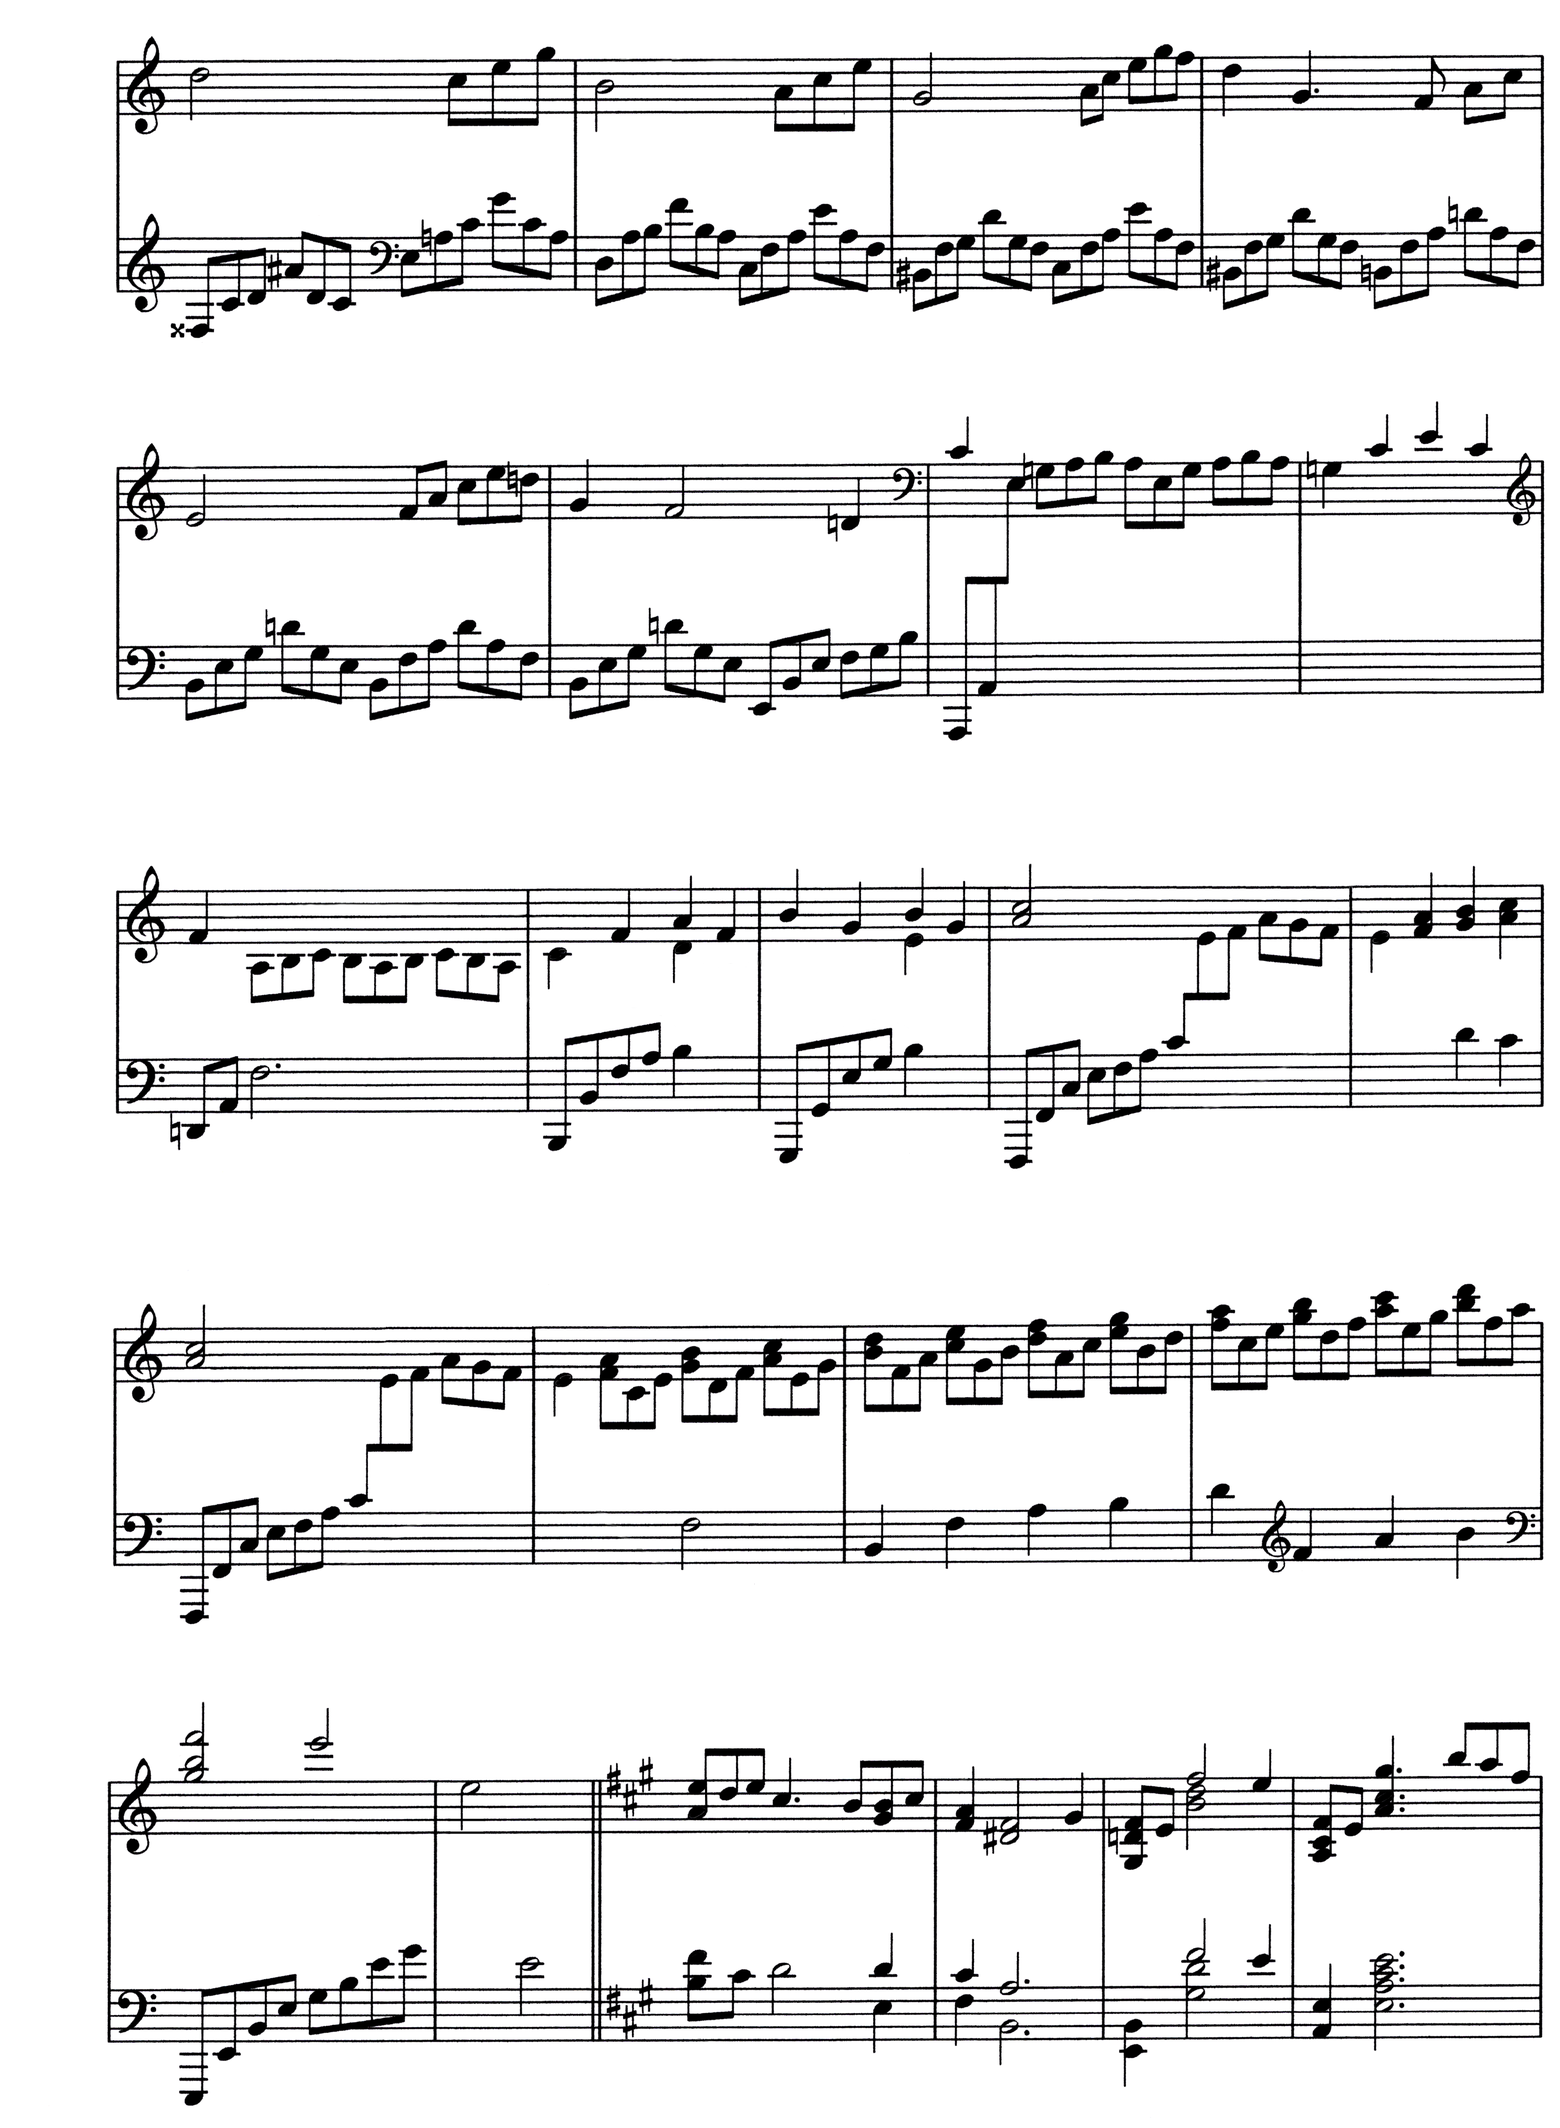
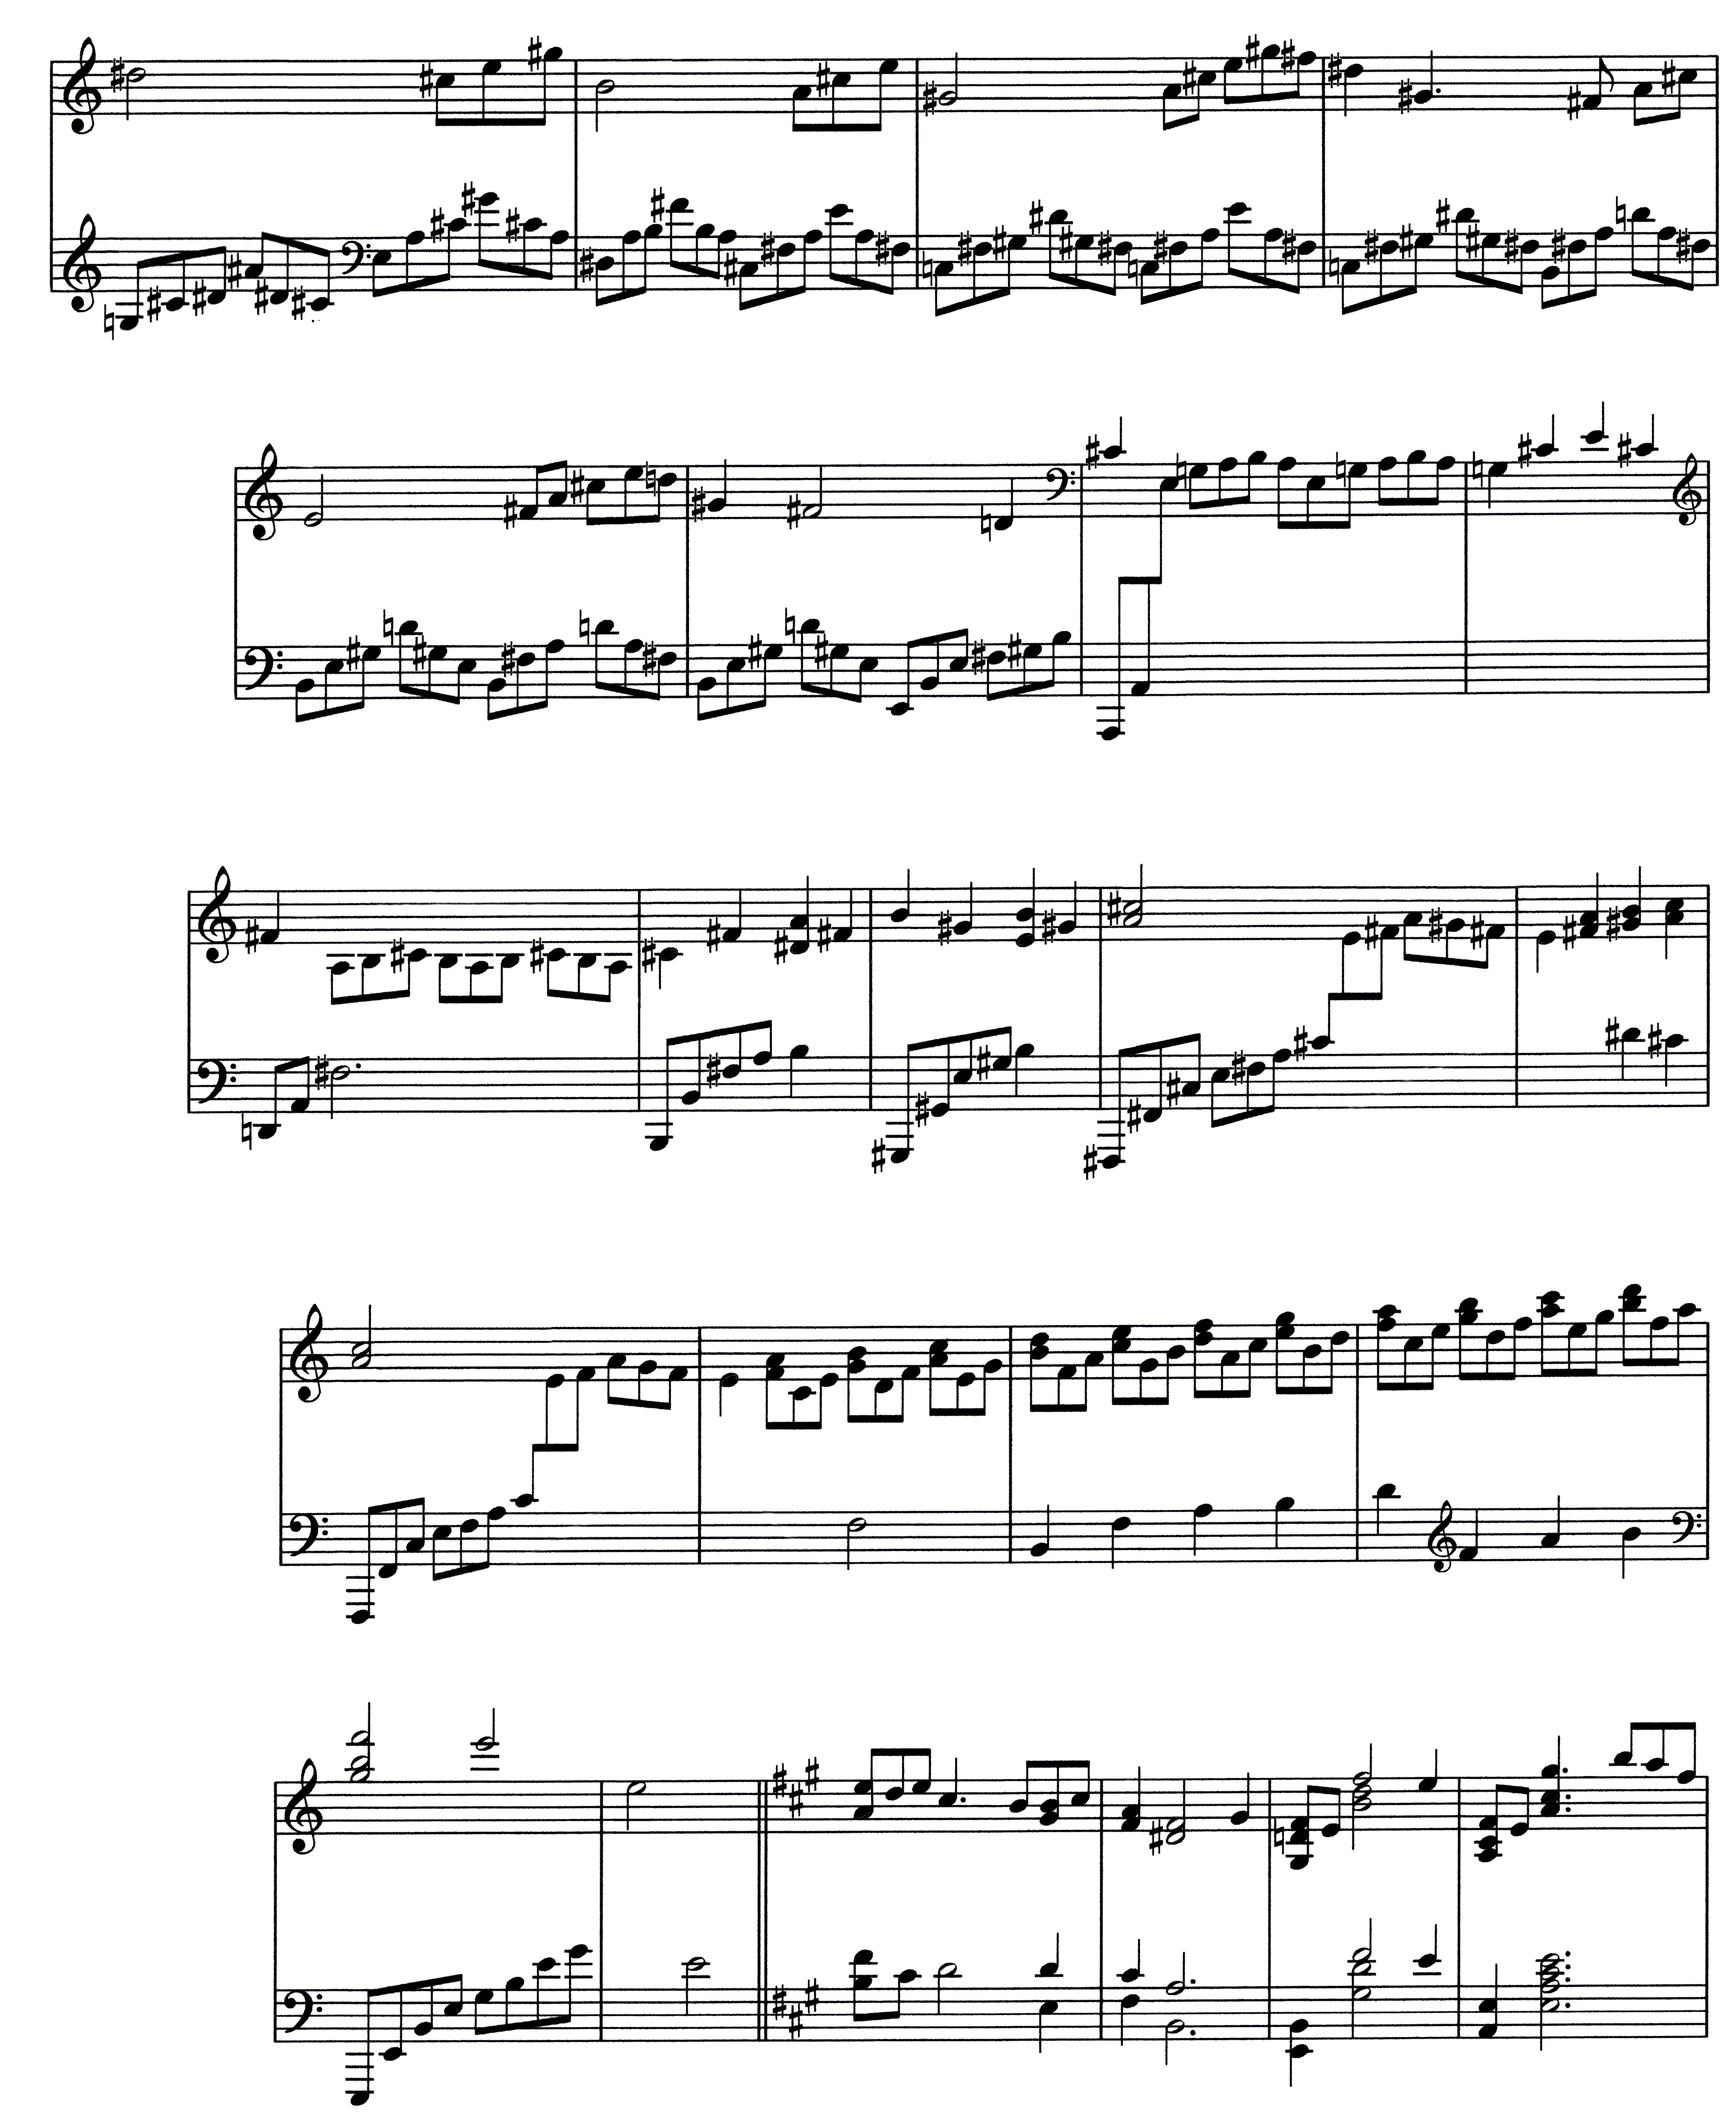
🎵 debussy-arabesque-1-sheet-music-simplified-page-2: Adding accidentals (even when part of key)

diff --git a/debussy-arabesque-1/debussy-arabesque-1-todo.md b/debussy-arabesque-1/debussy-arabesque-1-todo.md
@@ -43,7 +43,8 @@ TODO
 - [x] Removing extension bows.
 - [x] ~~Removing repeated clefts.~~ > Changes too often.
 - [x] Simplifying note durations / voicing notation.
-- [ ] Adding accidentals (even when part of key) (might take a few hours more).
-    - [ ] WAS AT: Page 2
+- [ ] __Adding accidentals__ (even when part of key) (might take a few hours more).
+    - [ ] WAS AT: Page 2, line 3, bar 4
+- [ ] Change B# => C | Cb => B | E# => F | Fb => E
 - [ ] Adding title (adding the word 'simplified')
 - [ ] Adding page numbers (font not too small)

diff --git a/todo-roughly.md b/todo-roughly.md
@@ -14,6 +14,8 @@ TODO
 - [ ] Debussy Arabesque I
     - [ ] Chords & sheet music
     - [ ] See specialized TODO.
+- [ ] Sheet Music Software
+    - [ ] Trying "Neuratron AudioScore First" / "Avid Sibelius First"
 - [ ] Technique:
     - [ ] Rehearsing Barbara Lister-Sink suggestions.
 - [ ] Pieces to play:

diff --git a/resources/README.MD b/resources/README.MD
@@ -7,3 +7,4 @@ Resources
 - [Unicode Characters for Music](unicode-characters-for-music.md)
 - [8th Rest Symbol Picture](8th-rest-symbol.png)
 - [Sharp Symbol](sharp-symbol.png)
+- [Natural Symbol](natural-symbol.png)
